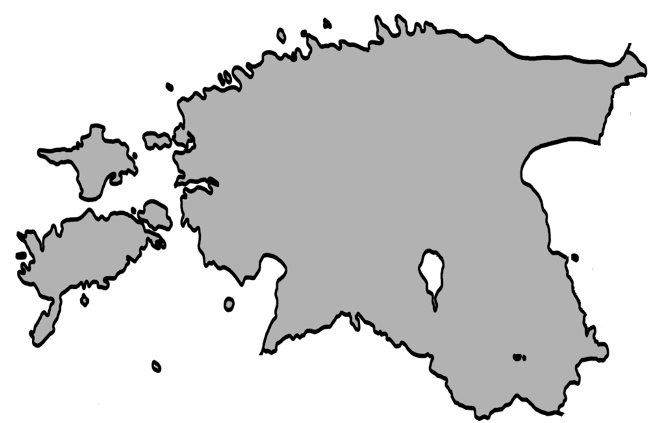
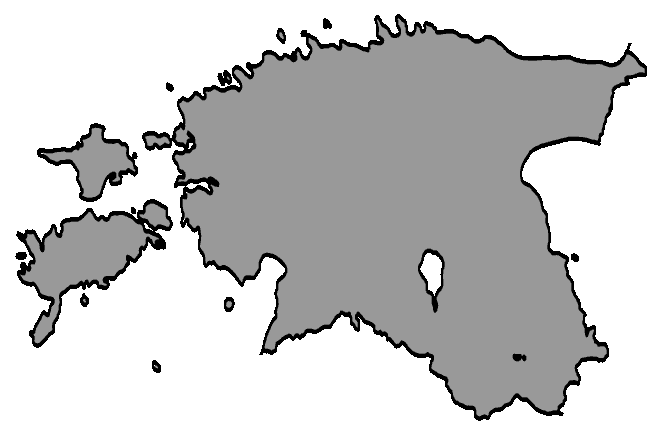
Validated HTML, CSS and JS. Optimized background image.

diff --git a/Valimised/war/Valimised.html b/Valimised/war/Valimised.html
@@ -6,10 +6,7 @@
 
 <html manifest="cache.manifest">
 <head>
-<meta http-equiv="cache-control"
-	content="no-cache, no-store, must-revalidate">
-<meta http-equiv="Pragma" content="no-cache">
-<meta http-equiv="Expires" content="0">
+<meta http-equiv="Expires" content="Fri, 31 Dec 2013 23:59:59 GMT">
 <meta http-equiv="content-type" content="text/html; charset=UTF-8">
 
 <!-- -->
@@ -35,22 +32,16 @@
 	href="http://code.jquery.com/ui/1.10.2/themes/smoothness/jquery-ui.css" />
 <script src="http://code.jquery.com/jquery-1.9.1.js"></script>
 <script src="http://code.jquery.com/ui/1.10.2/jquery-ui.js"></script>
-<script type="text/javascript" language="javascript"
-	src="valimised/valimised.nocache.js"></script>
-<script type="text/javascript" language="javascript"
+<script type="text/javascript" src="valimised/valimised.nocache.js"></script>
+<script type="text/javascript"
 	src="javascript/jquery.tablesorter.min.js"></script>
-<script type="text/javascript" language="javascript"
-	src="javascript/candidateSearch.js"></script>
-<script type="text/javascript" language="javascript"
-	src="javascript/validation.js"></script>
-<script type="text/javascript" language="javascript"
-	src="javascript/results.js"></script>
-<script type="text/javascript" language="javascript"
-	src="javascript/voting.js"></script>
-<script type="text/javascript" language="javascript"
-	src="javascript/candidate.js"></script>
+<script type="text/javascript" src="javascript/candidateSearch.js"></script>
+<script type="text/javascript" src="javascript/validation.js"></script>
+<script type="text/javascript" src="javascript/results.js"></script>
+<script type="text/javascript" src="javascript/voting.js"></script>
+<script type="text/javascript" src="javascript/candidate.js"></script>
 <script type="text/javascript" src="/_ah/channel/jsapi"></script>
-<script type="text/javascript" src="javascript/login.js"></script> 
+<script type="text/javascript" src="javascript/login.js"></script>
 </head>
 
 <!-- -->
@@ -88,12 +79,13 @@
 
 	<div id="content"></div>
 	<div id="spinner"></div>
-	
+
+	<footer>
+		<p>Rakenduses realiseeritud e-valimiste näide on realiseeritud
+			tehnoloogiate praktiseerimise eesmärgil ning ei ole mõeldud reaalsete
+			e-valimiste korraldamiseks. Kokkulangevused reaalse e-valimiste
+			protsessiga on juhuslikud</p>
+	</footer>
+
 </body>
-<footer>
-	<p>Rakenduses realiseeritud e-valimiste näide on realiseeritud
-		tehnoloogiate praktiseerimise eesmärgil ning ei ole mõeldud reaalsete
-		e-valimiste korraldamiseks. Kokkulangevused reaalse e-valimiste
-		protsessiga on juhuslikud</p>
-</footer>
 </html>

diff --git a/Valimised/war/css/Valimised.css b/Valimised/war/css/Valimised.css
@@ -58,7 +58,7 @@ body {
 	background-origin: content-box !important;
 	background-attachment: fixed !important;
 	background-position: center !important;
-	webkit-background-size: cover !important;
+	-webkit-background-size: cover !important;
 	-moz-background-size: cover !important;
 	-o-background-size: cover !important;
 	background-size: cover !important;
@@ -119,7 +119,6 @@ footer {
     margin-left: 20%;
     margin-right: 20%;
     margin-top: 30%;
-    height: 50 px;
 }
 
 footer p {
@@ -182,10 +181,6 @@ button.toCandidatesButton, button.cancelCandidateButton
 	-webkit-border-radius: 10px;
 	-moz-border-radius: 10px;
 	border-radius: 10px;
-	-webkit-box-shadowmargin: 0.5em; : rgba (0,0,0,1) 0 1px 0;
-	-moz-box-shadow: rgba(0, 0, 0, 1) 0 1px 0;
-	box-shadow: rgba(0, 0, 0, 1) 0 1px 0;
-	text-shadow: rgba(0, 0, 0, .4) 0 1px 0;
 	color: white;
 	font-size: 24px;
 	text-decoration: none;

diff --git a/Valimised/war/javascript/results.js b/Valimised/war/javascript/results.js
@@ -106,7 +106,7 @@ window.createResultsTable = function() {
 				text : 'Vaata tulemusi graafiliselt',
 				title : 'Vaata tulemusi Eesti kontuurkaardil',
 				href : '#',
-				class : 'graphicLink',
+				class : 'candidatesTable',
 				click : function() {
 					loadScript()
 				}
